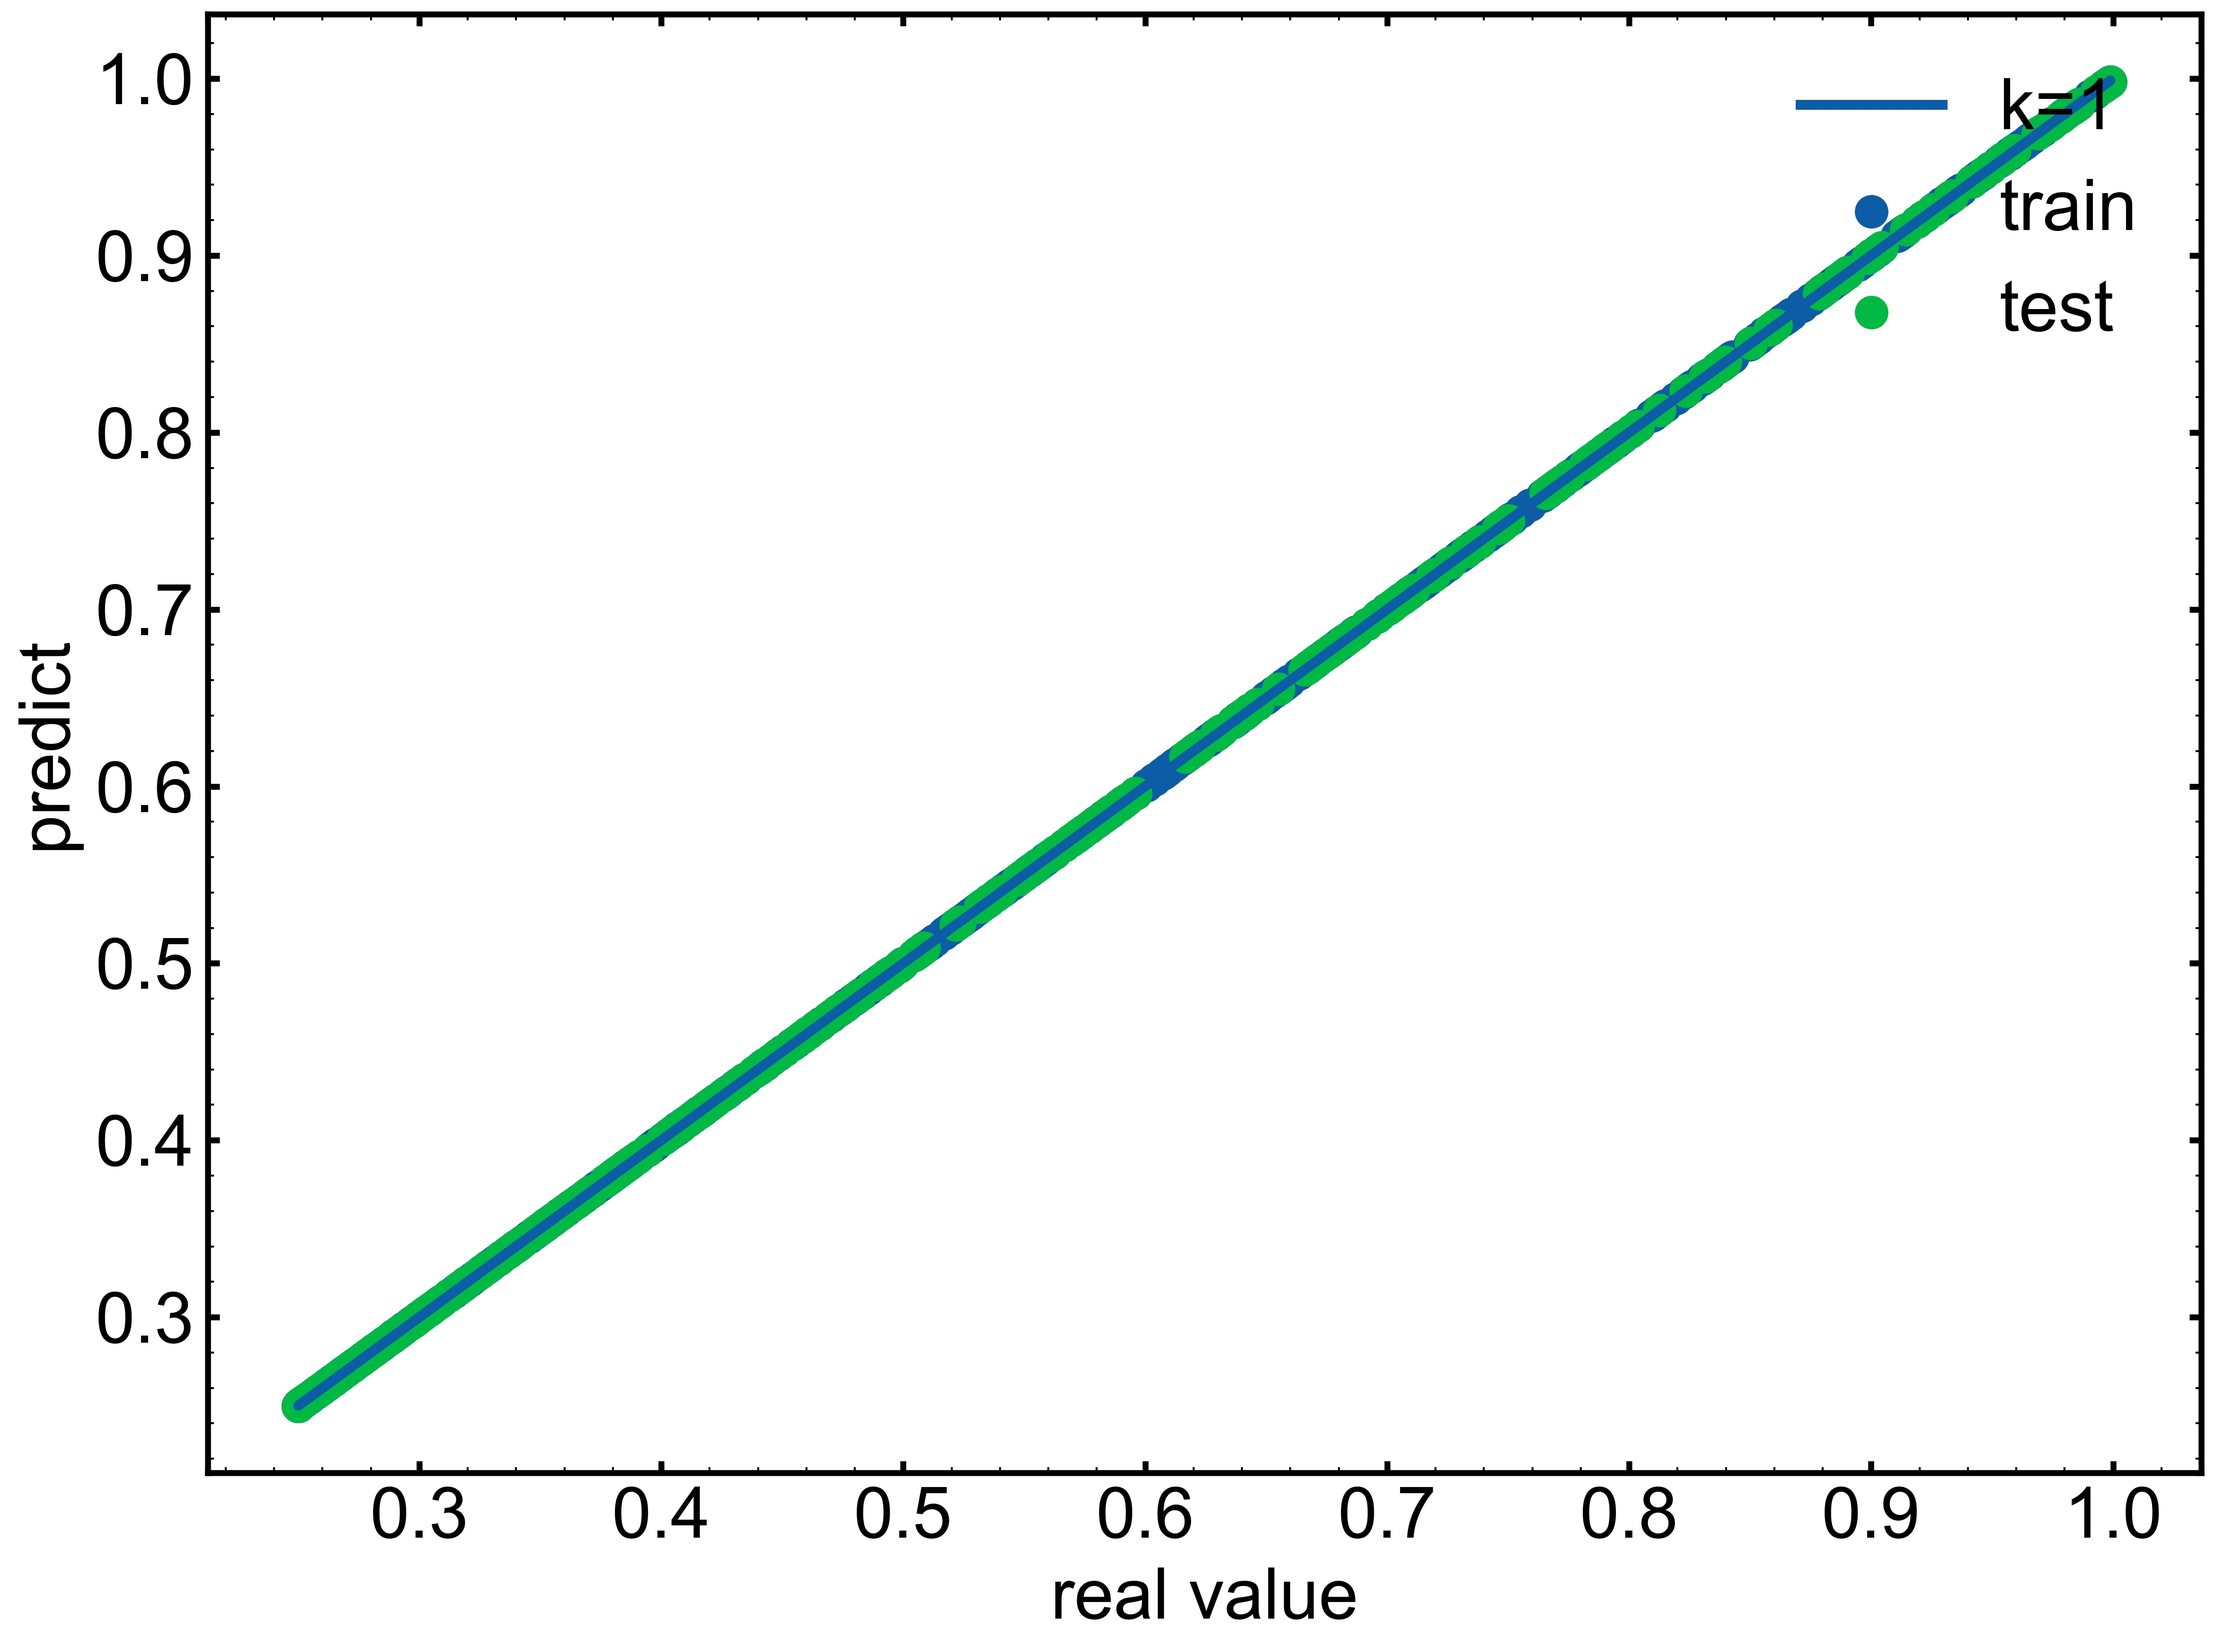
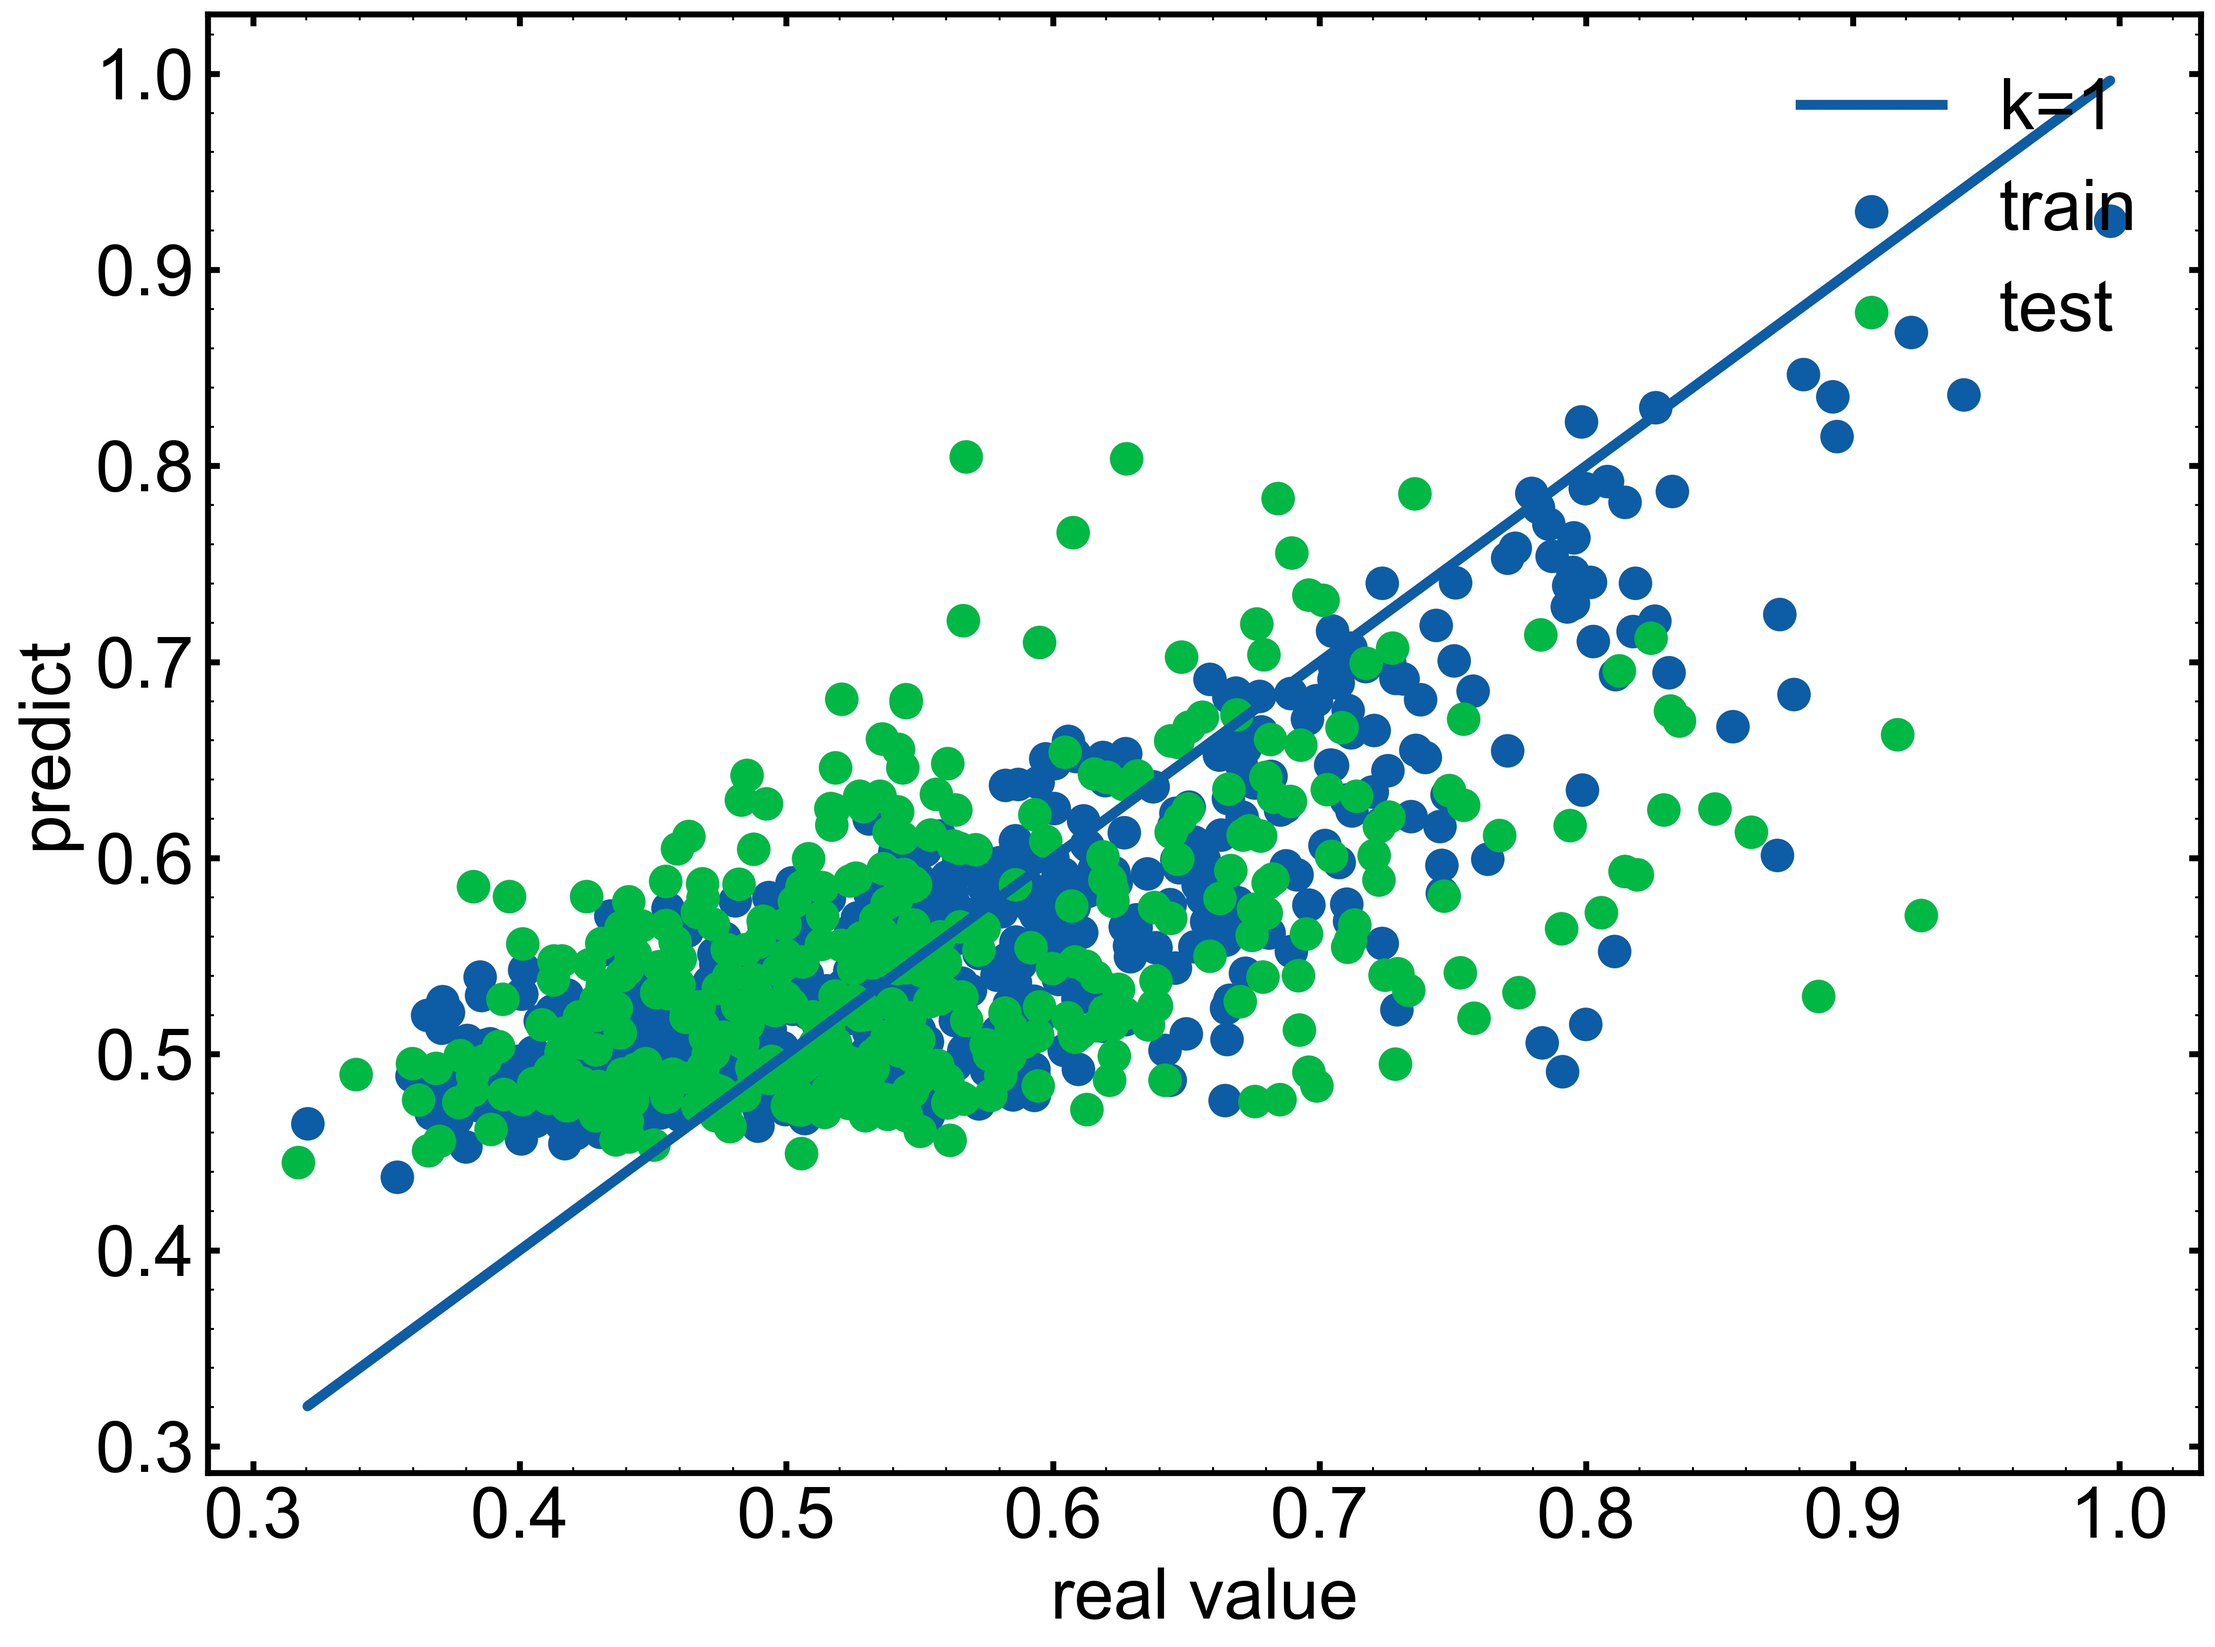
expand the purity of rho

diff --git a/dataset.py b/dataset.py
@@ -2,7 +2,7 @@
 # @Author: WY
 # @Date:   2022-03-07 19:03:11
 # @Last Modified by:   WY
-# @Last Modified time: 2022-03-08 15:26:03
+# @Last Modified time: 2022-03-08 21:18:49
 
 import numpy as np
 from numpy import sin, cos, sqrt
@@ -29,12 +29,15 @@ def Get_rho(v, s_type):
         rho = v * psi.dot(psi.T.conjugate()) + (1 - v) * np.kron(I, I) / 4
         
     elif s_type == 'random':  # random mixed state
-        A = np.random.uniform(size=(4, 4))
-        B = np.random.uniform(size=(4, 4))
+        v = np.random.choice([2, 3, 4], 1)[0]
+        #print(v)
+        A = np.random.normal(size=(4, v))
+        B = np.random.normal(size=(4, v))
         sig = A + 1j * B
         rho = sig.dot(sig.T.conjugate()) / np.trace(sig.dot(sig.T.conjugate()))
+        #print(np.trace(rho))
 
-    return rho
+    return np.mat(rho)
 
 
 def Get_theta_Matrix(rho):
@@ -121,7 +124,7 @@ def Dataset_state(N, te_size, s_type):
 
 
 if __name__ == "__main__":
-    X_train, X_test, y_train, y_test = Dataset_state(1000, 0.3, 'Werner')
+    X_train, X_test, y_train, y_test = Dataset_state(1000, 0.3, 'random')
     print('X_train:\n', X_train)
     print('y_train:\n', y_train)
     print('X_test:\n', X_test)

diff --git a/model.py b/model.py
@@ -2,7 +2,7 @@
 # @Author: WY
 # @Date:   2022-03-08 10:04:54
 # @Last Modified by:   WY
-# @Last Modified time: 2022-03-08 11:19:11
+# @Last Modified time: 2022-03-08 21:21:45
 
 from sklearn.svm import SVR
 from sklearn import linear_model
@@ -76,7 +76,7 @@ def Get_model(m_type='RF'):
 
     # tree
     elif m_type == 'DT':
-        model = DecisionTreeRegressor()
+        model = DecisionTreeRegressor(max_depth=10)
     elif m_type == 'RF':
         model = RandomForestRegressor(n_estimators=150)
 
@@ -106,8 +106,8 @@ def Get_model(m_type='RF'):
 
     # NN
     elif m_type == 'MLP':
-        model = MLPRegressor(hidden_layer_sizes=(50, 200, 200, 50), early_stopping=True, 
-                             activation='relu', learning_rate='adaptive')
+        model = MLPRegressor(hidden_layer_sizes=(100, 200, 200, 200, 100), early_stopping=True, 
+                             activation='relu')
 
     return model
 

diff --git a/main.py b/main.py
@@ -2,7 +2,7 @@
 # @Author: WY
 # @Date:   2022-03-07 19:03:32
 # @Last Modified by:   WY
-# @Last Modified time: 2022-03-08 15:29:01
+# @Last Modified time: 2022-03-08 21:21:59
 
 import numpy as np
 from dataset import Dataset_state
@@ -66,10 +66,10 @@ def Get_figure(dataset, model):
 
 if __name__ == "__main__":
     #-----dataset-----
-    X_train, X_test, y_train, y_test = Dataset_state(1000, 0.4, 'Werner')
+    X_train, X_test, y_train, y_test = Dataset_state(1000, 0.4, 'random')
 
     #-----model-----
-    model = Get_model('Gauss')  # KNN, RF, Gauss, Bagging
+    model = Get_model('GB')  # KNN, RF, Gauss, Bagging
 
     #-----predict-----
     model.fit(X_train, y_train)
